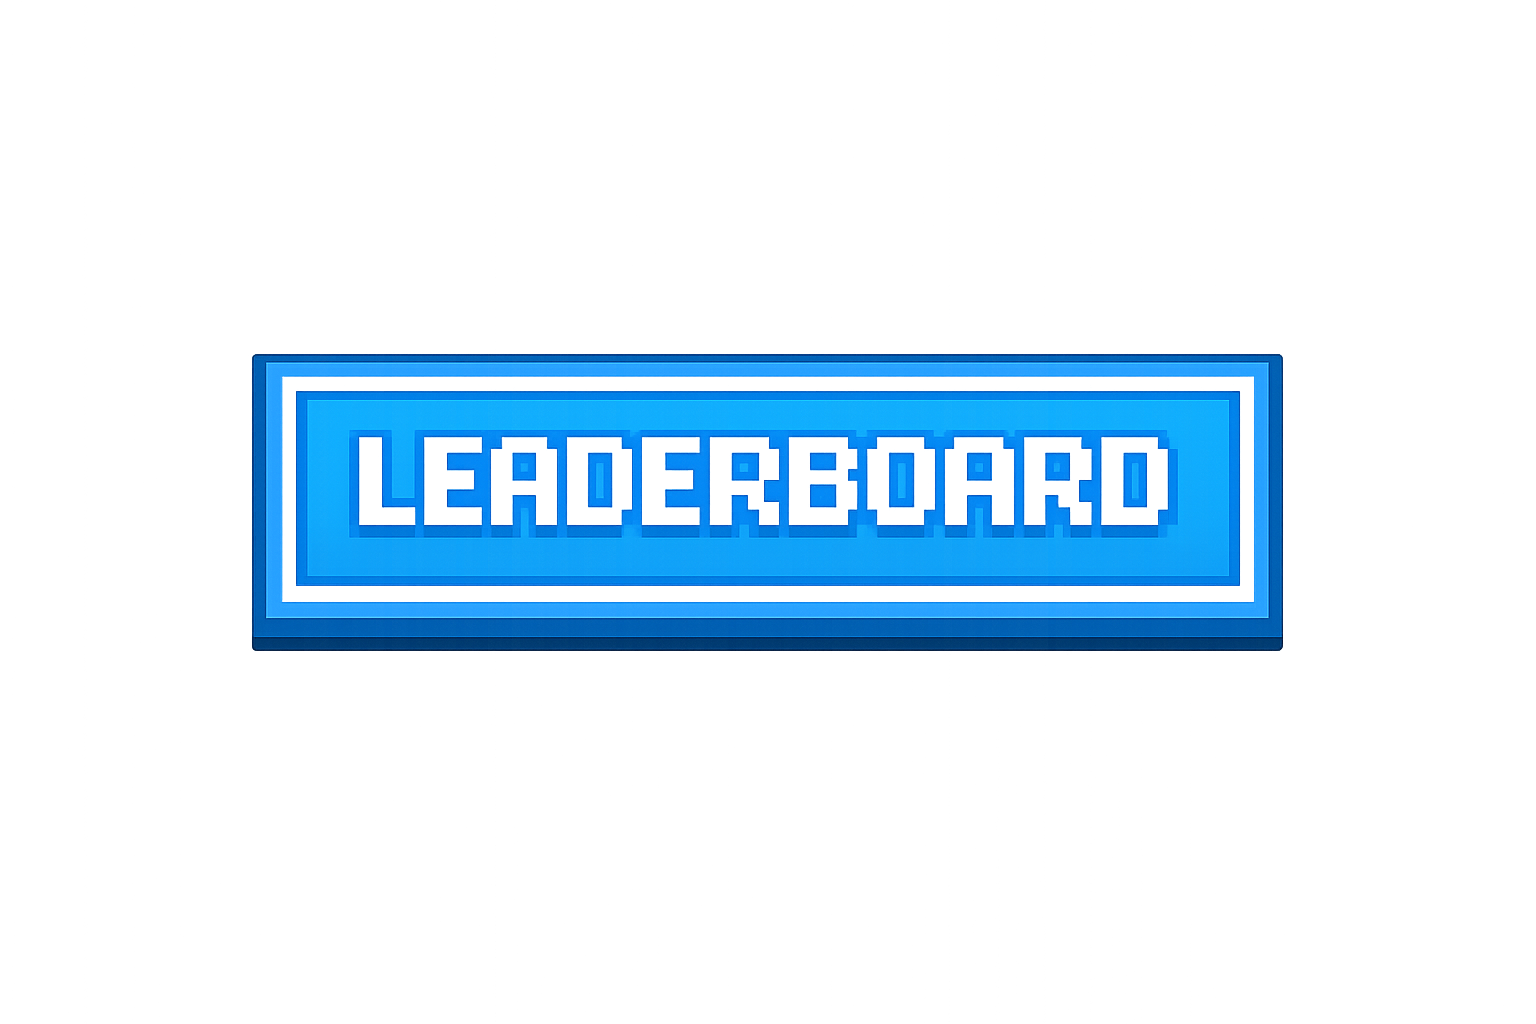
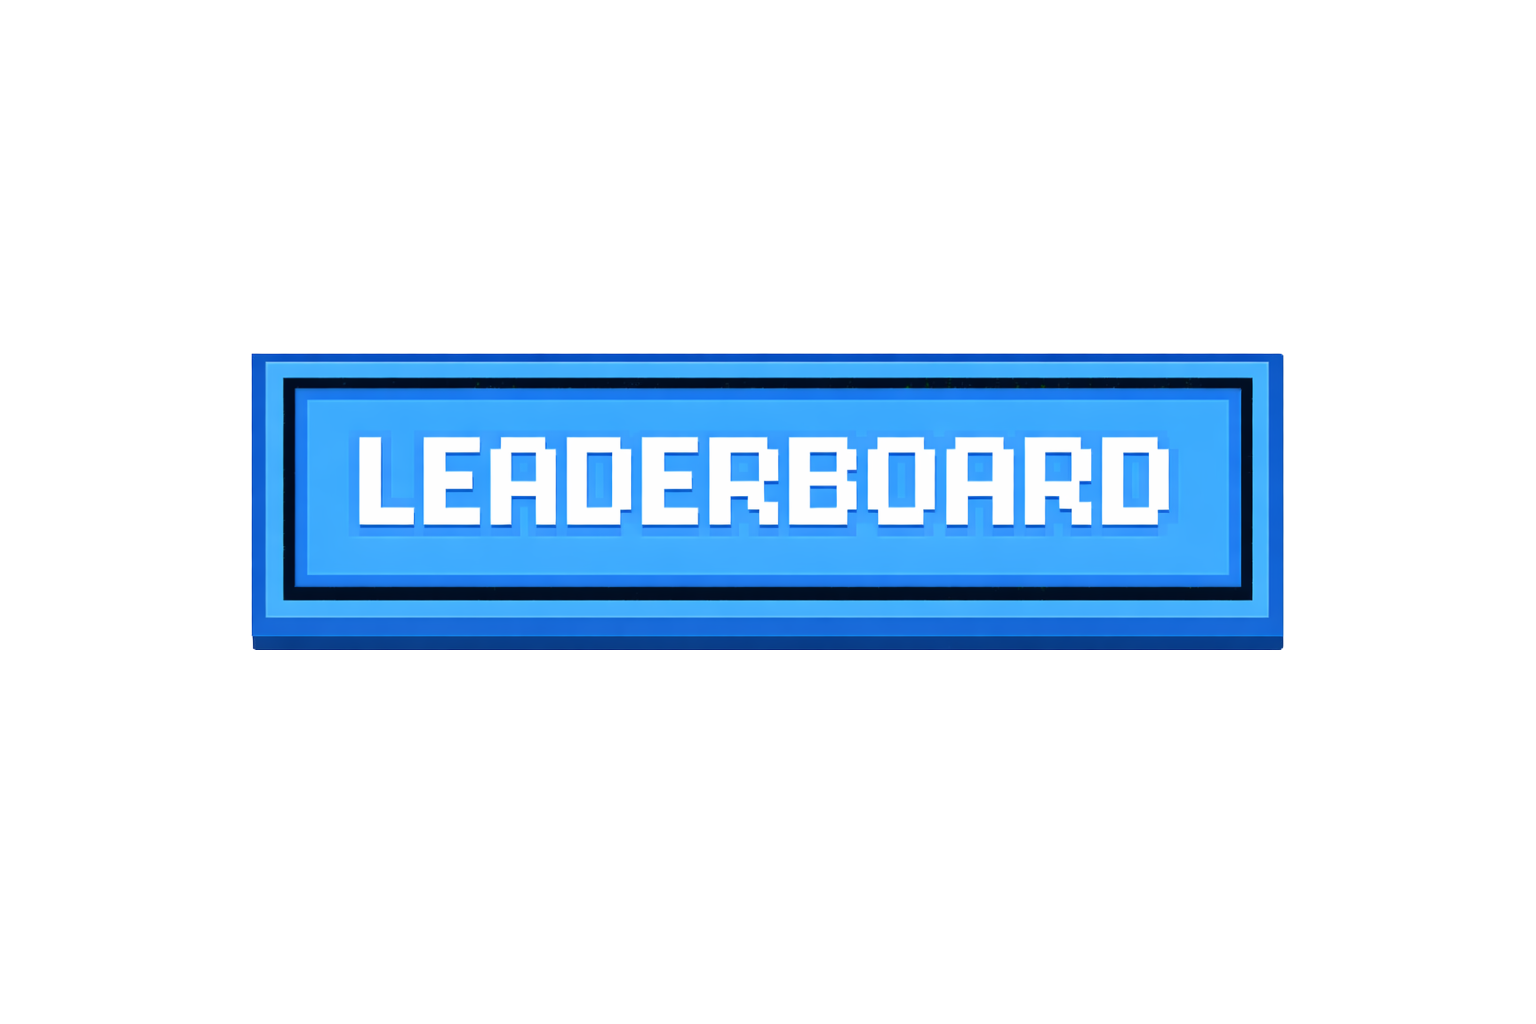
Fikset en del UU i form av outlines or bedere lesbar tutorial, ikke helt ferdig med det og holder på og implementere en settings meny

Changed region(s): [[0.1562, 0.3438, 0.8438, 0.6562]]

diff --git a/JumpBoy.py b/JumpBoy.py
@@ -14,7 +14,6 @@ pygame.init()
 clock = pygame.time.Clock()
 fps = 60
 
-
 screen_width = 800
 screen_height = 800
 
@@ -39,6 +38,9 @@ font_score = pygame.font.SysFont('Bauhaus 93', 30)
 font = pygame.font.SysFont('Bauhaus 93', 90)
 font_leaderboard_entry = pygame.font.SysFont('Bauhaus 93', 24)
 white = (255, 255, 255)
+gray = (128, 128, 128)
+black = (0, 0, 0)
+green = (0, 100, 0)
 red = (255, 0, 0)
 blue = (0, 0, 255)
 yellow = (255, 255, 0)
@@ -63,7 +65,14 @@ demon_btn_img = pygame.transform.scale(pygame.image.load('img/Demon_Button.png')
 tutorial_img = pygame.transform.scale(pygame.image.load('img/tutorial.png'), (300, 200))
 spike_sheet = pygame.image.load("img/spike.png").convert_alpha()
 death_skull = pygame.image.load('img/skull.png')
-leaderboard_img = pygame.transform.scale(pygame.image.load('img/leaderboard.png'), (400, 200))
+leaderboard_img = pygame.transform.scale(pygame.image.load('img/leaderboard.png'), (400, 235))
+settings_img = pygame.transform.scale(pygame.image.load('img/settings.png'), (150, 100))
+trym_img = pygame.transform.scale(pygame.image.load('img/trym.png'), (230, 200))
+speech_original = pygame.image.load('img/speech.png').convert_alpha()
+desired_speech_height = 170
+speech_scale = desired_speech_height / speech_original.get_height()
+speech_width = int(speech_original.get_width() * speech_scale)
+speech_img = pygame.transform.smoothscale(speech_original, (speech_width, desired_speech_height))
 
 red_overlay = pygame.Surface((screen_width, screen_height), pygame.SRCALPHA)
 red_overlay.fill((255, 0, 0, 70))
@@ -84,9 +93,28 @@ db.init_db()
 db.debug_print_scores()
 leaderboard_data = db.get_top_scores()
 
-def draw_text(text, font, text_col, x, y):
-    img = font.render(str(text), True, text_col)
-    screen.blit(img, (x, y))
+def draw_text_no_aa(text, font, text_col, x, y):
+    surface = font.render(str(text), False, text_col)
+    screen.blit(surface, (x, y))
+
+def draw_text(text, font, text_col, x, y, outline_col=None, outline_thickness=1):
+    base_text = str(text)
+
+    if outline_col is None:
+        outline_col = black
+
+    text_surface = font.render(base_text, True, text_col)
+    outline_surface = font.render(base_text, True, outline_col)
+
+    if outline_thickness > 0:
+        for ox in range(-outline_thickness, outline_thickness + 1):
+            for oy in range(-outline_thickness, outline_thickness + 1):
+                if ox == 0 and oy == 0:
+                    continue
+                if ox * ox + oy * oy <= outline_thickness * outline_thickness:
+                    screen.blit(outline_surface, (x + ox, y + oy))
+
+    screen.blit(text_surface, (x, y))
 
 def format_time(seconds):
     return time.strftime("%M:%S", time.gmtime(seconds)) + f".{int((seconds % 1) * 100):02}"
@@ -186,10 +214,10 @@ world3_button = Button(550, screen_height // 2 - 150, world3_img)
 world5_button = Button(550, screen_height // 2 - 150, world5_img)
 tutorial_button = Button(screen_width // 2 - 159, 550, tutorial_img)
 demon_toggle_button = Button(screen_width // 2 - 110, screen_height - 125, demon_btn_img)
-leaderboard_button = Button(screen_width // 2 - 440, -30, leaderboard_img)
+leaderboard_button = Button(screen_width // 2 - 187, screen_height // 2 + 170, leaderboard_img)
 death_img = pygame.transform.scale(death_skull, (tile_size, tile_size))
+settings_button = Button(screen_width // 2 - 63, screen_height // 2 + 120, settings_img)
 user_text = ''
-
 
 
 run = True
@@ -207,7 +235,7 @@ while run == True:
         screen.blit(sun_img, (100, 100))
 
     if leaderboard_active:
-        screen.fill((0, 50, 50))
+        screen.fill((0, 50, 100))
         draw_text('LEADERBOARD', font, light_blue, screen_width // 2 - 250, 50)
         if back_button_select.draw(screen):
             leaderboard_active = False
@@ -224,13 +252,12 @@ while run == True:
             color = white
             
             draw_text(world_name, font_score, color, x, y)
-            y += 20
-            
+            y += 30
             if w in full_leaderboard_data:
                 for i, row in enumerate(full_leaderboard_data[w][:15]):
                     score_text = f"{i+1}. {row[0]} - {row[2]:.2f}s"
                     draw_text(score_text, font_leaderboard_entry, color, x, y)
-                    y += 25
+                    y += 30
 
     elif main_menu == True:
         if start_button.draw(screen):
@@ -245,6 +272,9 @@ while run == True:
             leaderboard_active = True
             main_menu = False
             full_leaderboard_data = db.get_all_scores()
+        if settings_button.draw(screen):
+            settings_active = True
+            main_menu = False
         
         lb_x = screen_width - 250
         lb_y = 20
@@ -273,6 +303,7 @@ while run == True:
         if back_button_select.draw(screen):
             world_select = False
             main_menu = True
+            demon_mode = False
             leaderboard_data = db.get_top_scores()
         
         if not demon_mode:
@@ -381,13 +412,41 @@ while run == True:
         draw_text(death_counter, font_score, red, screen_width - 50, 12)
         screen.blit(death_img, (screen_width - 90, 0))
 
-        if selected_world == 4:
-            tut_font = pygame.font.SysFont('Bauhaus 93', 30)
-            draw_text('Move: WASD/Arrows', tut_font, blue, 50, 50)
-            draw_text('Jump: Space/Up', tut_font, blue, 50, 80)
-            draw_text('R: Restart', tut_font, blue, 50, 110)
-            draw_text('ESC: Menu', tut_font, blue, 50, 140)
 
+        if selected_world == 4 and game_over != 2:
+            screen.blit(trym_img, (screen_width - 260, 50))
+
+            bubble_x = screen_width - 350
+            bubble_y = 30
+            screen.blit(speech_img, (bubble_x, bubble_y))
+
+            tut_font = pygame.font.SysFont('Bauhaus 93', 25)
+            lines = []
+
+            if level == 1:
+                lines = [
+                    "Move: WASD / Arrows",
+                    "Jump: Space / Up",
+                    "R: Restart  ESC: Menu",
+                ]
+            elif level == 2:
+                lines = [
+                    "Hold Space / Up to",
+                    "jump higher to reach",
+                    "higher platforms.",
+                ]
+            elif level == 3:
+                lines = [
+                    "Now its time to test",
+                    "your skill bitch!",
+                    "Huahuahuahuahuaa"
+                ]
+            text_x = bubble_x + 10
+            text_y = bubble_y + 32
+            line_spacing = 26
+            for line in lines:
+                draw_text_no_aa(line, tut_font, black, text_x, text_y)
+                text_y += line_spacing
         blob_group.draw(screen)
         platform_group.draw(screen)
         lava_group.draw(screen)
@@ -476,10 +535,11 @@ while run == True:
                 elif world_select:
                     world_select = False
                     main_menu = True
+                    demon_mode = False
                     leaderboard_data = db.get_top_scores()
                 elif main_menu:
                     run = False
-                else:  # In-game (playing, dead, or won)
+                else:
                     world_select = True
                     timer_running = False
                     game_over = 0
@@ -516,11 +576,12 @@ while run == True:
                     timer_running = True
                     user_text = ''
             else:
-                if len(user_text) < 15:
+                if len(user_text) < 9:
                     user_text += event.unicode
 
     if (world_select and demon_mode) or (not main_menu and not world_select and selected_world == 5):
         screen.blit(red_overlay, (0, 0))
+
 
     pygame.display.update()
 

diff --git a/Classes/database.py b/Classes/database.py
@@ -27,11 +27,15 @@ class HighscoreDatabase:
             """
         )
 
+        c.execute("DELETE FROM highscores WHERE LENGTH(username) > 9")
+
         conn.commit()
         conn.close()
 
     def save_highscore(self, username: str, world: int, time_seconds: float) -> None:
         username = "".join(char for char in username if char.isalpha()).upper()
+        # Maks 10 tegn i databasen
+        username = username[:9]
         if not username:
             return
 
